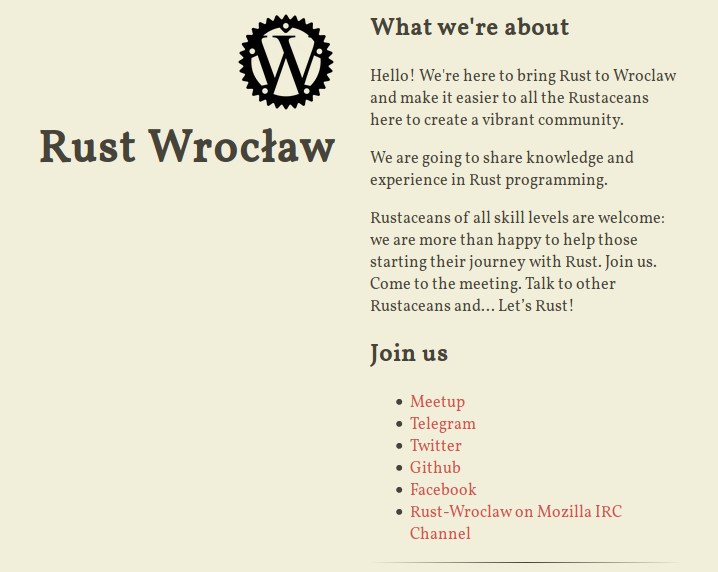
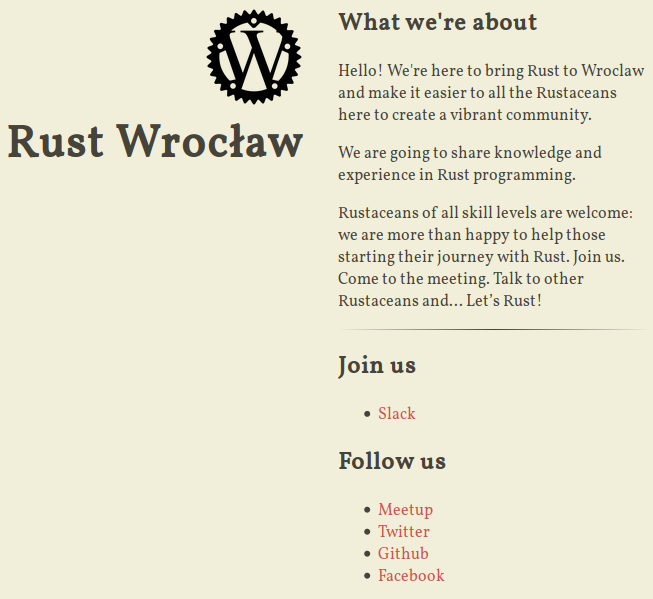
community slides divided into separate meetings

diff --git a/index.html b/index.html
@@ -7,7 +7,7 @@
 		<title>Rust Wrocław</title>
 
 		<link rel="stylesheet" href="css/reveal.css">
-		<link rel="stylesheet" href="css/theme/league.css">
+		<link rel="stylesheet" href="css/theme/beige.css">
 
 		<!-- Theme used for syntax highlighting of code -->
 		<link rel="stylesheet" href="lib/css/zenburn.css">
@@ -24,12 +24,20 @@
 	<body>
 		<div class="reveal">
 			<div class="slides">
-				<section data-markdown="slides/rust-community.md"
+				<section data-markdown="slides/title.md"
 				         data-separator="^----\n\n"
 				         data-separator-vertical="^====\n\n"
 				         data-separator-notes="^Note:">
-				         <!-- 
-				         	data-charset="iso-8859-2"> -->
+				</section>				
+				<section data-markdown="slides/06-2019.md"
+				         data-separator="^----\n\n"
+				         data-separator-vertical="^====\n\n"
+				         data-separator-notes="^Note:">
+				</section>				
+				<section data-markdown="slides/01-2019.md"
+				         data-separator="^----\n\n"
+				         data-separator-vertical="^====\n\n"
+				         data-separator-notes="^Note:">
 				</section>				
 			</div>
 		</div>
@@ -46,7 +54,7 @@
 				progress: true,
 				slideNumber: "c/t",
 				showNotes: false,
-				transition: 'convex',
+				transition: 'slide',
 				dependencies: [
 					{ src: 'plugin/markdown/marked.js' },
 					{ src: 'plugin/markdown/markdown.js' },

diff --git a/slides/06-2019.md b/slides/06-2019.md
@@ -1,13 +1,12 @@
-# Rust Wrocław!
-
-----
+# 05.2019
+====
 
 ## Who are we?
 
 Note:
 we as a group (Rust Wroclaw)
 and as people behind it
-----
+====
 
 ## Short summary of 2018
 
@@ -16,7 +15,7 @@ and as people behind it
 * 1 workshop
 
 (all happened mostly during the 2nd half of the year)
-----
+====
 
 ## Where to find us?
 
@@ -24,14 +23,14 @@ https://rust-wroclaw.github.io/
 
 <img src="slides/rust-wroclaw-github.png" width="50%" height="50%"></img>
 
-----
+====
 
 ## Our goal
 
 * create Rust community in Wroclaw
 * help start learning Rust
 * make Rust more popular among developers in Wroclaw
-----
+====
 
 ## Our vision
 
@@ -40,8 +39,7 @@ https://rust-wroclaw.github.io/
 * convince people to experiment with Rust
 * encourage people to get involved in Rust community
 * workshops!
-
-----
+====
 
 ## Meetings format
 - 'long' talks (~30 minutes)
@@ -53,13 +51,13 @@ https://rust-wroclaw.github.io/
 Note:
 presentation longer than 30minutes is a lot of work
 you should be capable of selling your idea within half an hour
-----
+====
 
 ## Engagement
 
 **Community = YOU!**
 
-----
+====
 
 ### Do not ask what we can do for you...
 
@@ -68,7 +66,7 @@ you should be capable of selling your idea within half an hour
 - or run a workshop?
 - want to talk about your project...
 - ...or something else Rust related?
-----
+====
 
 ### Rules?
 
@@ -82,4 +80,4 @@ Note:
 - be nice, sell your ideas without 
 - everyone is welcome here: minorities, foreigners etc.
 - has sth uncomfortable happened? reach out to us (organizers)
-----
+====

diff --git a/slides/01-2019.md b/slides/01-2019.md
@@ -1,13 +1,12 @@
-# Rust Wrocław!
-
-----
+# 01.2019
+====
 
 ## Who are we?
 
 Note:
 we as a group (Rust Wroclaw)
 and as people behind it
-----
+====
 
 ## Short summary of 2018
 
@@ -16,7 +15,7 @@ and as people behind it
 * 1 workshop
 
 (all happened mostly during the 2nd half of the year)
-----
+====
 
 ## Where to find us?
 
@@ -24,14 +23,14 @@ https://rust-wroclaw.github.io/
 
 <img src="slides/rust-wroclaw-github.png" width="50%" height="50%"></img>
 
-----
+====
 
 ## Our goal
 
 * create Rust community in Wroclaw
 * help start learning Rust
 * make Rust more popular among developers in Wroclaw
-----
+====
 
 ## Our vision
 
@@ -41,7 +40,7 @@ https://rust-wroclaw.github.io/
 * encourage people to get involved in Rust community
 * workshops!
 
-----
+====
 
 ## Meetings format
 - 'long' talks (~30 minutes)
@@ -53,13 +52,13 @@ https://rust-wroclaw.github.io/
 Note:
 presentation longer than 30minutes is a lot of work
 you should be capable of selling your idea within half an hour
-----
+====
 
 ## Engagement
 
 **Community = YOU!**
 
-----
+====
 
 ### Do not ask what we can do for you...
 
@@ -68,7 +67,7 @@ you should be capable of selling your idea within half an hour
 - or run a workshop?
 - want to talk about your project...
 - ...or something else Rust related?
-----
+====
 
 ### Rules?
 
@@ -82,4 +81,4 @@ Note:
 - be nice, sell your ideas without 
 - everyone is welcome here: minorities, foreigners etc.
 - has sth uncomfortable happened? reach out to us (organizers)
-----
+====

diff --git a/slides/title.md b/slides/title.md
@@ -1,0 +1,4 @@
+# Rust Wrocław!
+
+<small>the biggest Rust community group in Poland</small>
+
